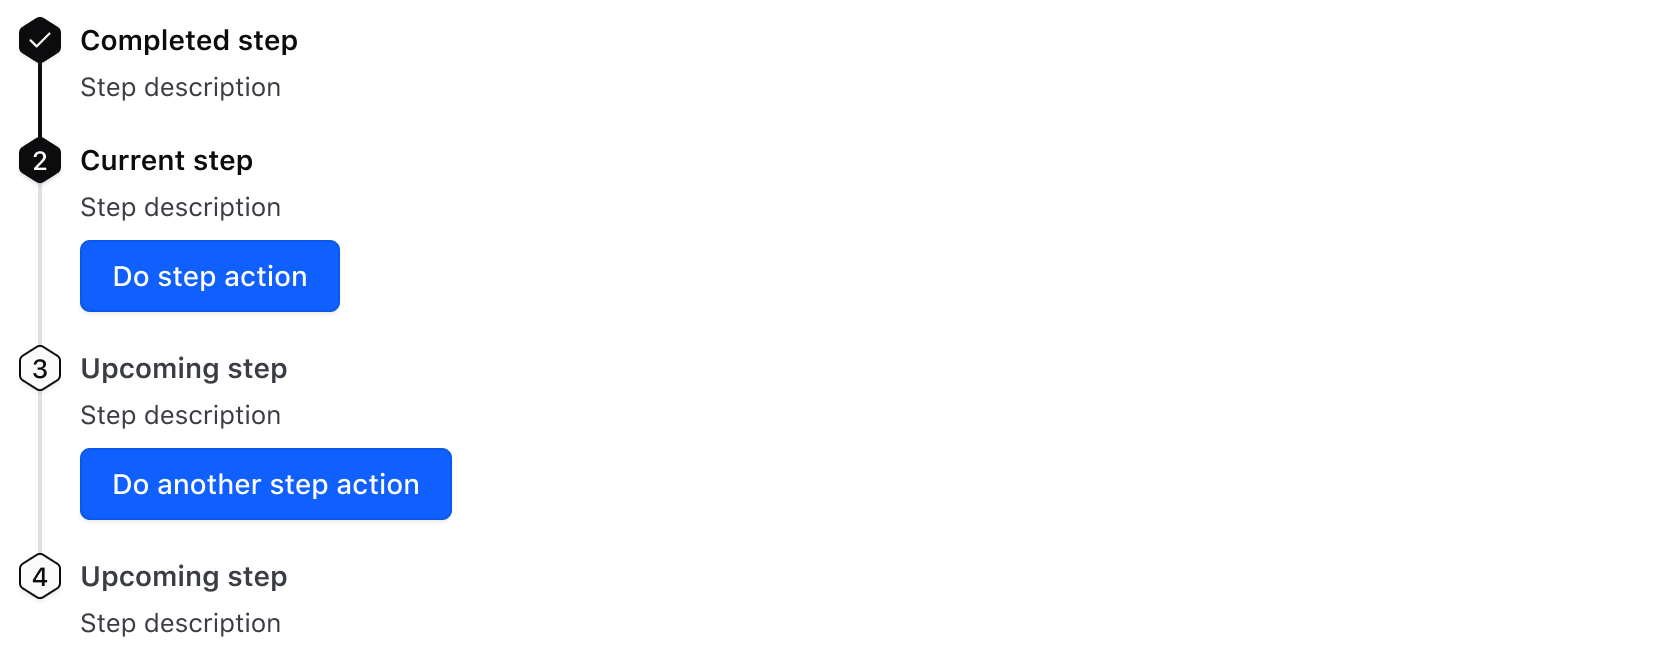
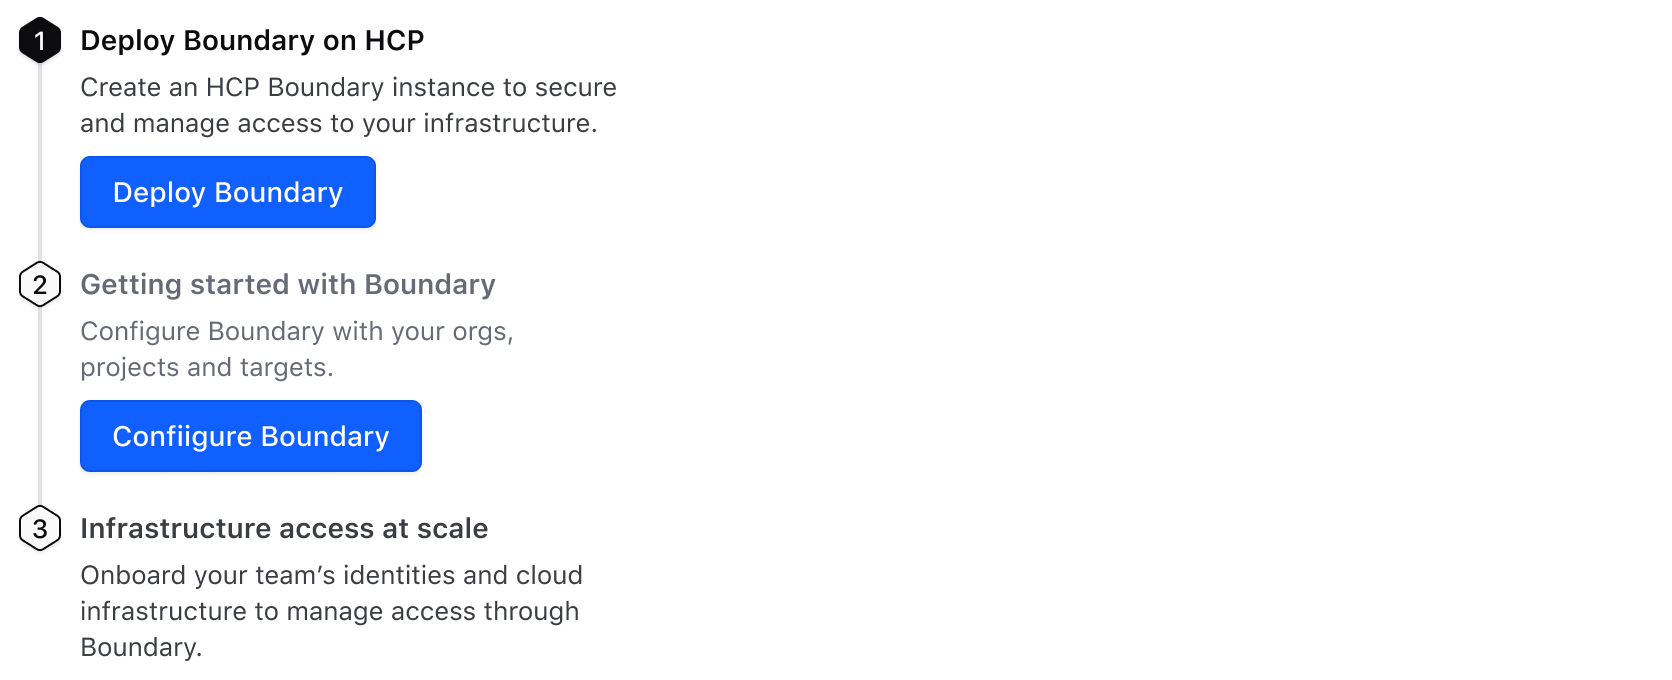
updated examples for progressive disclosure

Changed region(s): [[0.0, 0.3659, 0.3421, 0.9146], [0.0, 0.0305, 0.3732, 0.3354], [0.0311, 0.9451, 0.1866, 0.9756]]

diff --git a/website/docs/components/stepper/list/partials/guidelines/guidelines.md b/website/docs/components/stepper/list/partials/guidelines/guidelines.md
@@ -47,7 +47,7 @@ We recommend showing the contents of only the **in-progress** step while hiding 
 
 Only show one call to action at a time.
 
-![Stepper with 4 steps. The current active step is step 2 and it has a call to action button in the content for the user to do the action required for the step.](/assets/components/stepper/list/stepper-list-progressive-disclosure.png)
+![Stepper with 3 steps. The current active step is step 1 and it has a call to action button in the content for the user to do the action required for the step.](/assets/components/stepper/list/stepper-list-progressive-disclosure-do.png)
 
 !!!
 
@@ -55,7 +55,7 @@ Only show one call to action at a time.
 
 Reduce visual noise by focusing which action the user should be taking first.
 
-![A stepper with 4 steps. The current active step is step 2. Both step 2 and 3 have a call to action button in their content for the user to do the action required for the step.](/assets/components/stepper/list/stepper-list-progressive-disclosure-dont.png)
+![A stepper with 3 steps. The current active step is step 1. Both step 1 and 2 have a call to action button in their content for the user to do the action required for the step.](/assets/components/stepper/list/stepper-list-progressive-disclosure-dont.png)
 
 !!!
 
